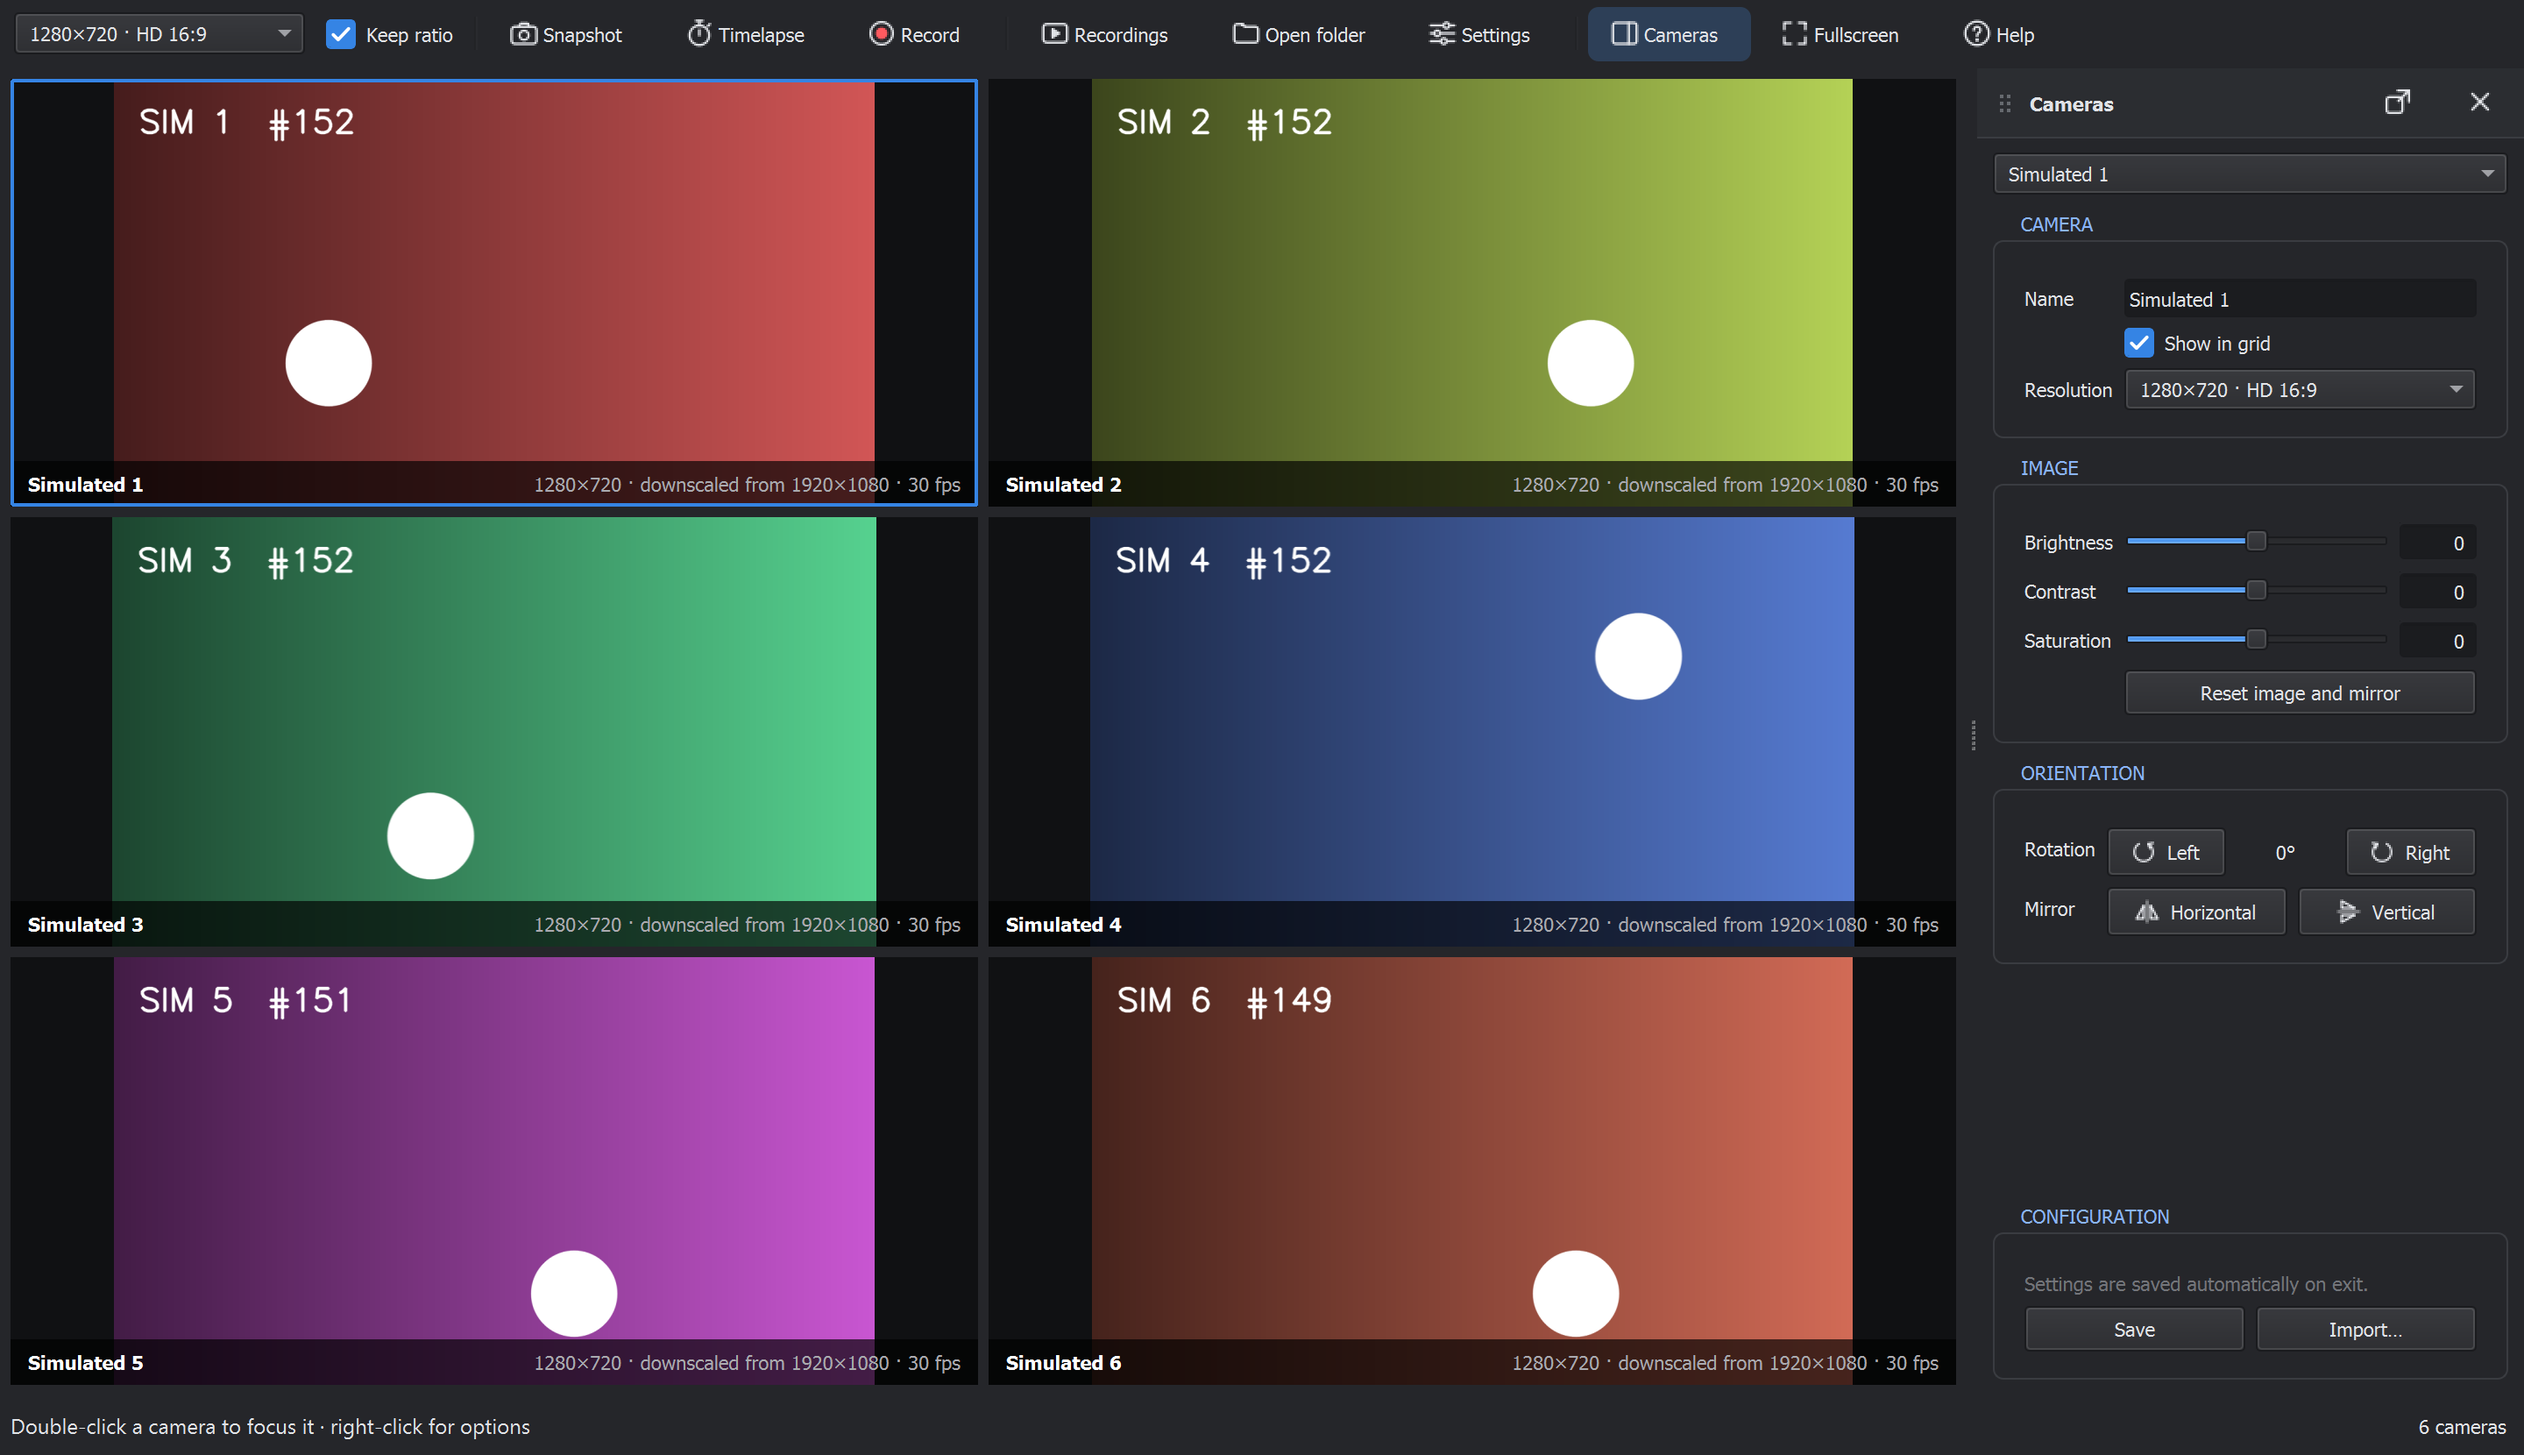
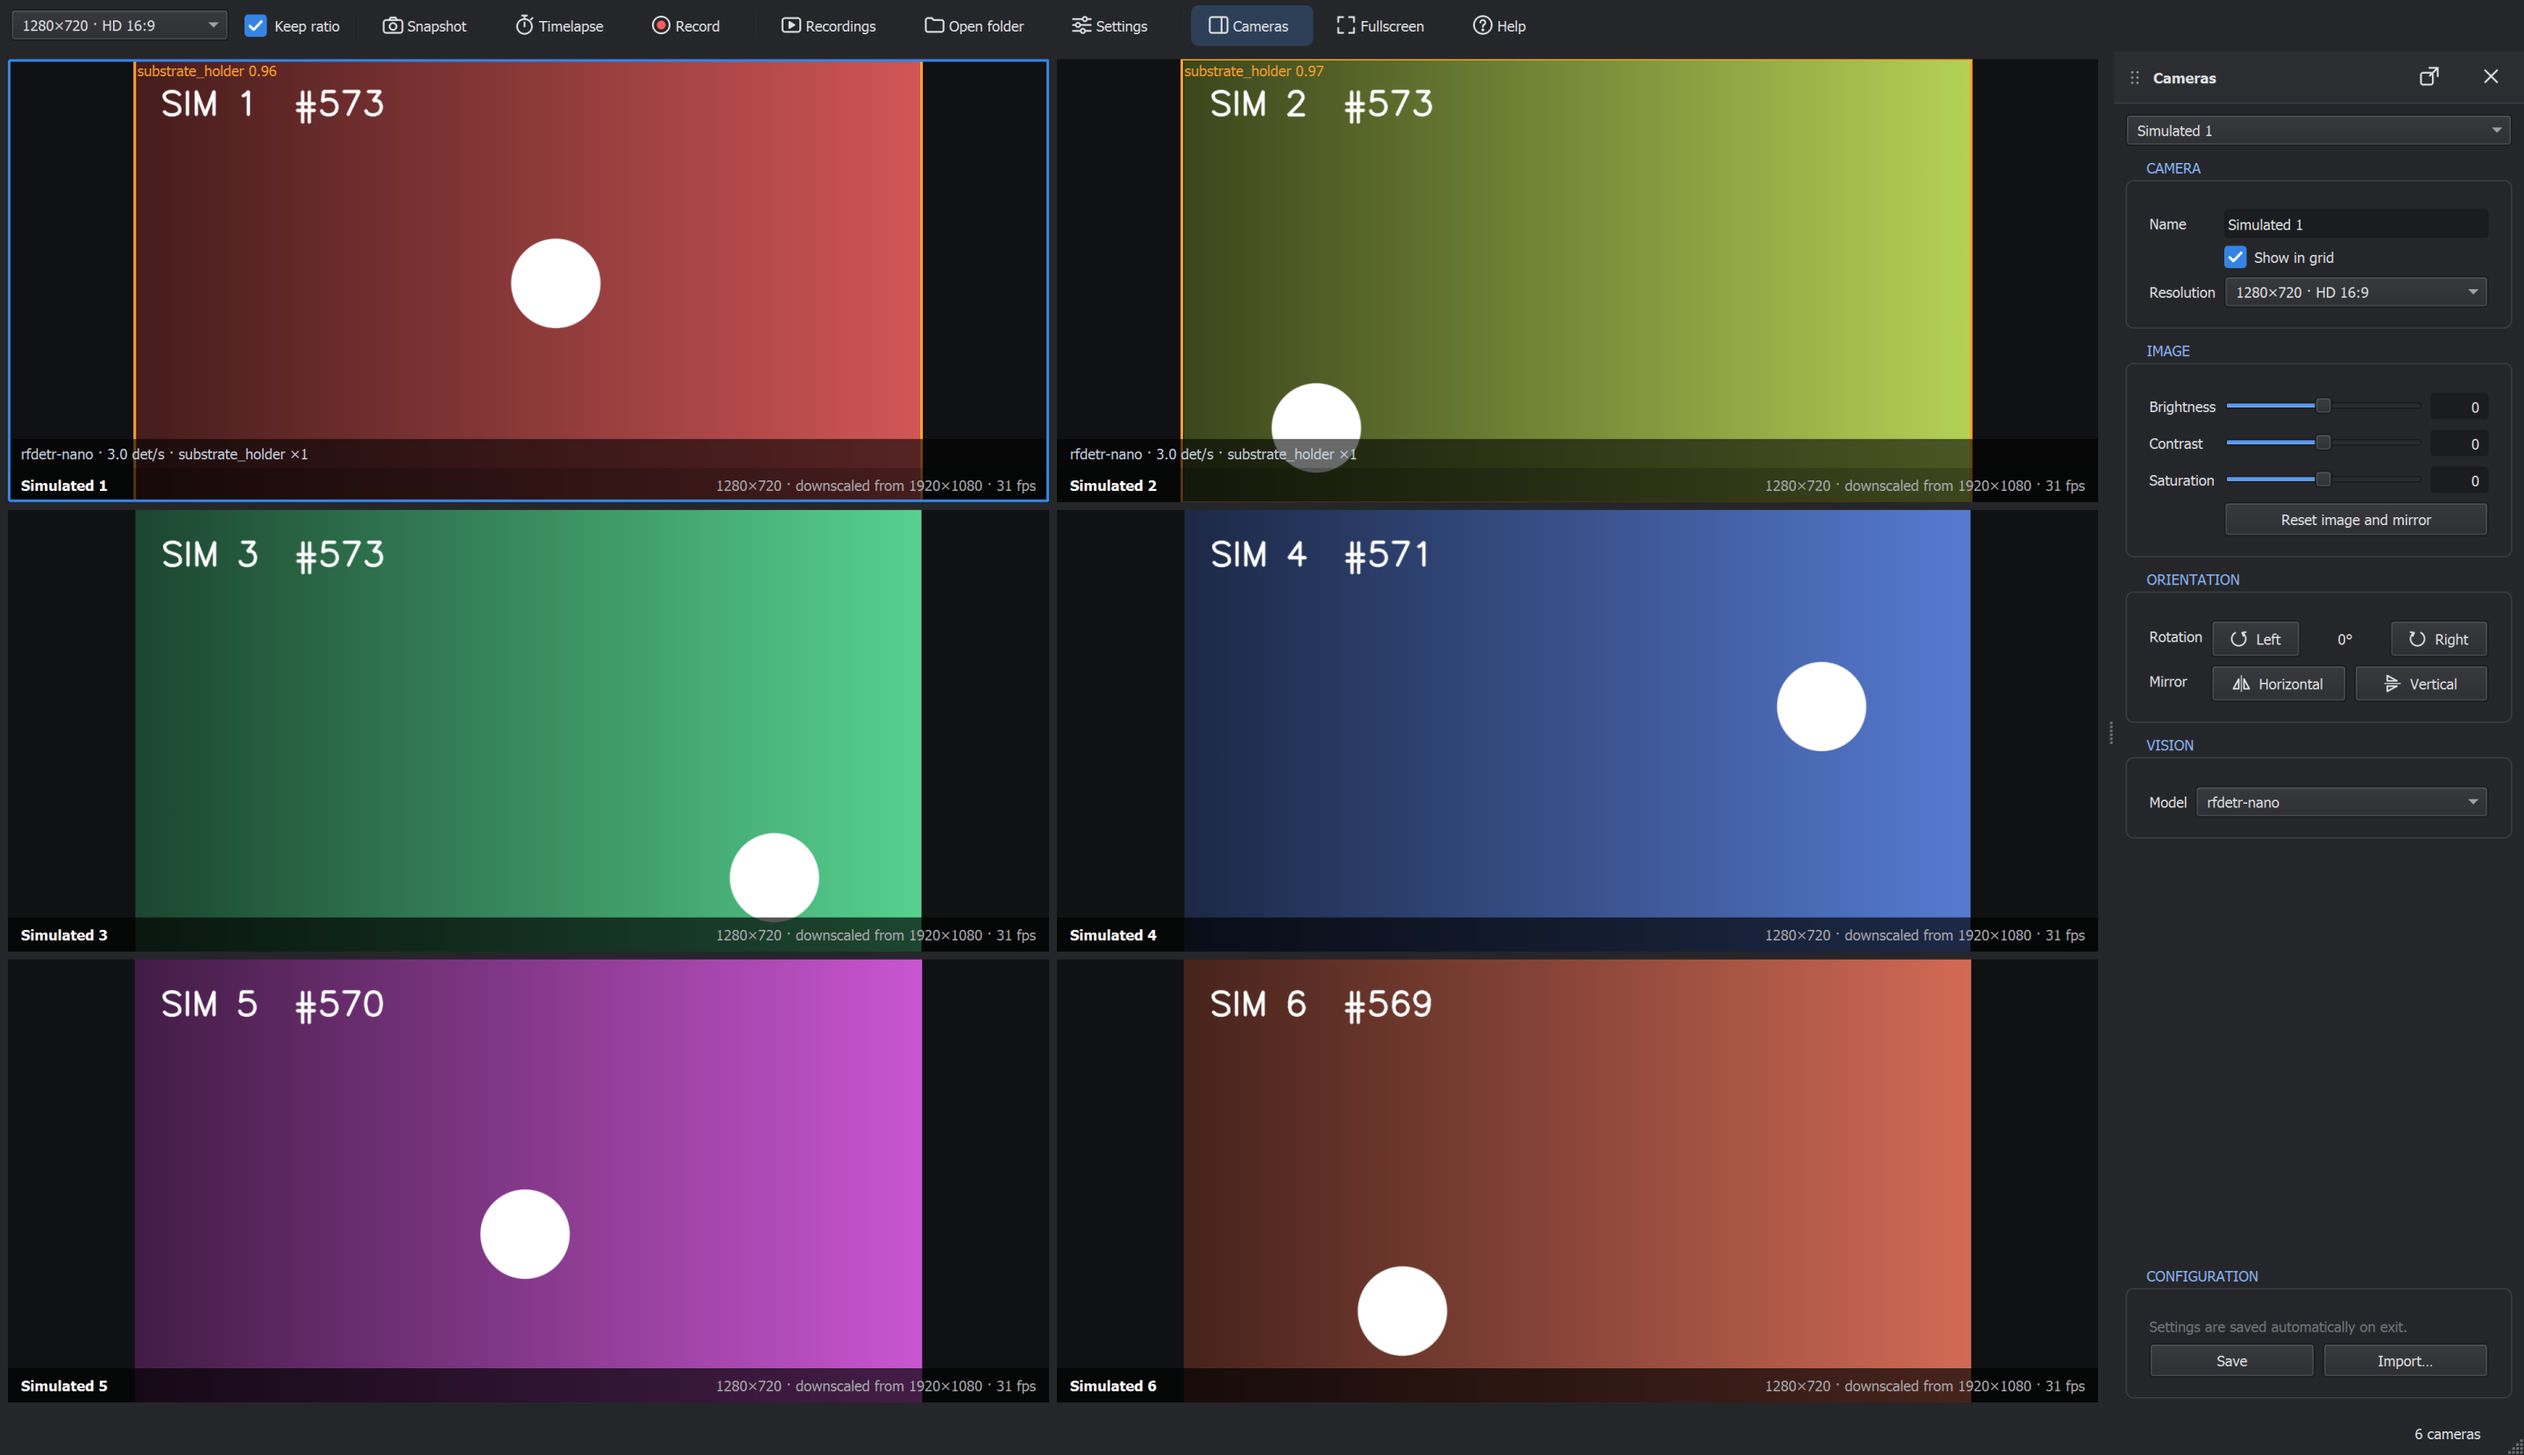
ManyCamFlux 2.1
Version 2.1, README: vision models, build.bat, new screenshots (simulated
cameras only).

diff --git a/utils.py b/utils.py
@@ -4,7 +4,7 @@ import sys
 
 from PyQt5.QtGui import QIcon
 
-VERSION = "2.0"
+VERSION = "2.1"
 REPO_URL = "https://github.com/MatisAgr/ManyCamFlux"
 
 

diff --git a/README.md b/README.md
@@ -5,13 +5,13 @@
 ManyCamFlux is a tiny project designed to manage multiple webcam feeds. It provides a simple interface to view, control, and capture screenshots from multiple cameras simultaneously.
 
 > [!IMPORTANT]
-> **🎉 ManyCamFlux 2.0 is out!** Almost everything was rewritten: threaded capture, hot-swap, video recording, timelapse, recordings browser, new camera panel...
+> **🎉 ManyCamFlux 2.1 is out!** Test object-detection models (RF-DETR, ONNX) live on your cameras, display only.
 >
-> 👉 See the full patch note in the [**2.0 release**](https://github.com/MatisAgr/ManyCamFlux/releases/tag/2.0).
+> 2.0 rewrote almost everything: threaded capture, hot-swap, video recording, timelapse, recordings browser, new camera panel... See the [**2.0 release**](https://github.com/MatisAgr/ManyCamFlux/releases/tag/2.0) patch note.
 >
 > Looking for the previous version? It is archived in the [Version-1.2-(OLD)](https://github.com/MatisAgr/ManyCamFlux/tree/Version-1.2-(OLD)) branch.
 
-![ManyCamFlux main window with 6 cameras](docs/screenshots/main.png)
+![ManyCamFlux main window with 6 simulated cameras, a vision model on two of them](docs/screenshots/main.png)
 
 ![Recordings browser](docs/screenshots/recordings.png)
 
@@ -33,6 +33,7 @@ ManyCamFlux is a tiny project designed to manage multiple webcam feeds. It provi
 - **Cut static scenes**: optional motion detection only keeps the frames where something moves (plus 2 s after), so a 24 h recording of a mostly still scene stays short. The date and time can be burned into the video.
 - **Recordings browser** (`Ctrl+L`): every session with a thumbnail, a built-in player (all parts as one timeline, speed up to ×64, frame by frame with ←/→) showing the real capture time of each frame, and *Render to video* for timelapses, with a progress bar at the bottom of the window. Recordings can be renamed (`F2`) and deleted (`Del`, to the recycle bin), or just one camera's track.
 - **Frame tracking**: each timelapse/video session has a `frames.csv` with the frame number, timestamp, elapsed time and the source frame number of each camera (useful to spot dropped or duplicated frames).
+- **Vision models (display only)**: import object-detection models (RF-DETR exported to ONNX) in *Settings*, then pick one per camera in the panel. Boxes are drawn on the live view, with the detections per second and the labels found at the bottom; snapshots and videos stay raw. A model shared by several cameras is loaded once and serves them in turn, on the CPU (half the cores, so capture and recording keep their frame rate). Class names come from the model, a `classes.txt` next to it, or are edited in *Settings*.
 - **Focus & fullscreen**: double-click a camera to show it alone, `F11` for fullscreen, `Esc` to go back.
 - **Persistent settings**: saved automatically on exit (`~/Documents/ManyCamFlux/`), importable from a file.
 
@@ -42,8 +43,8 @@ Two versions are available in the [latest release](https://github.com/MatisAgr/M
 
 | File | How to use it | Startup |
 |------|---------------|---------|
-| `ManyCamFlux_2.0_windows.zip` (**recommended**) | Unzip it, then run `ManyCamFlux.exe` inside the folder. Keep the `_internal` folder next to the `.exe`. | Fast |
-| `ManyCamFlux_2.0_portable.exe` | A single file: just run it. | Slower (it unpacks itself on every launch) |
+| `ManyCamFlux_2.1_windows.zip` (**recommended**) | Unzip it, then run `ManyCamFlux.exe` inside the folder. Keep the `_internal` folder next to the `.exe`. | Fast |
+| `ManyCamFlux_2.1_portable.exe` | A single file: just run it. | Slower (it unpacks itself on every launch) |
 
 ## Requirements
 
@@ -110,28 +111,24 @@ To build your modifications of ManyCamFlux project into a standalone executable 
     pip install pyinstaller
     ```
 
-2. **Compile the project**:
+2. **Compile the project** (Windows):
     ```sh
-    pyinstaller -D -w --add-data="assets;assets" -i assets/icon.ico ManyCamFlux.py
+    build.bat
     ```
-    - **Single file**: use `-F` instead of `-D` (simpler to share, but slower to start: it unpacks itself on every launch)
-    - **Enable debug console**: Remove `-w`
-        - **Exclude icon**: Remove `-i assets/icon.ico`
-    - **For Mac/Linux**: Replace `;` with `:` in `--add-data="assets/*:."`
+    It builds both release files (about 3 min) into `.proj/release/`, named after `utils.VERSION`, and overwrites them if they exist:
+    - `ManyCamFlux_<version>_windows.zip`: the one-folder build (`dist/ManyCamFlux/`) zipped, with `LICENSE`
+    - `ManyCamFlux_<version>_portable.exe`: the single-file build (`LICENSE` is inside)
+
+    It also replaces the old Visual C++ runtime bundled with PyQt5, which prevents the vision models from loading, with the build PC's newer one: build on a PC with an up-to-date Visual C++ runtime.
+    - **Debug console**: remove `-w` in `build.bat`
+    - **Mac/Linux**: `pyinstaller -D -w --add-data="assets:assets" --exclude-module PyQt6 --exclude-module torch ManyCamFlux.py`
 
 📌 More details available at: [PyInstaller Documentation](https://pyinstaller.org/en/stable/usage.html)
 
 
-3. **Run the executable**:
-    - After the compilation, the executable is in `dist/ManyCamFlux/ManyCamFlux.exe`. You can run it directly from there.
-    - With `-D`, the `.exe` needs the `_internal` folder next to it: share the whole `dist/ManyCamFlux` folder (zipped). With `-F`, the `.exe` alone is enough (`dist/ManyCamFlux.exe`).
+3. **Run the executable**: the zip version needs its `_internal` folder next to `ManyCamFlux.exe` (unzip the whole folder); the portable `.exe` runs alone.
 
-**Note:**
-
-If PyInstaller is not recognized after installation, try this command:
-```sh
-python -m PyInstaller -D -w --add-data="assets;assets" -i assets/icon.ico ManyCamFlux.py
-```
+**Note:** `build.bat` calls `python -m PyInstaller`, so it works even when the `pyinstaller` command is not on the PATH.
 
 *Further updates and adjustments will follow.*
 
